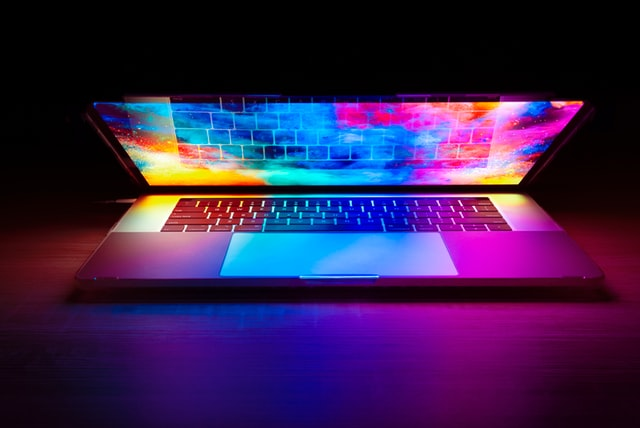
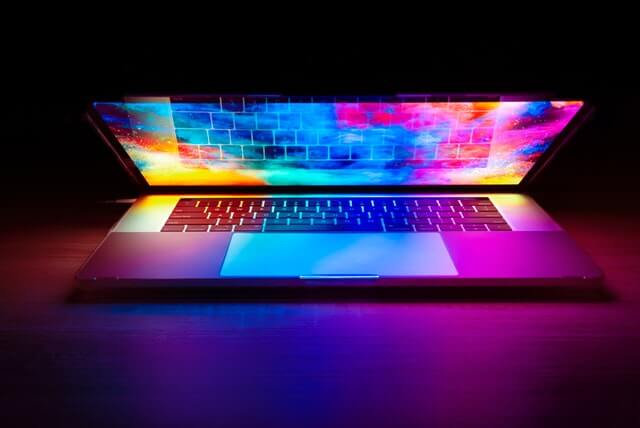
made mobile images, compressed all images and converted all html images to webp's

diff --git a/index.html b/index.html
@@ -192,7 +192,24 @@
 					Louis E. Boone
 				</h3>
 				<div class="container">
-					<img
+					<picture>
+						<source
+							media="(max-width: 640px)"
+							srcset="images/portrait-m.webp"
+						/>
+						<source media="(min-width: 641px)" srcset="images/portrait.webp" />
+						<img
+							id="portrait"
+							src="images/portrait.jpg"
+							alt="portrait"
+							width="351"
+							height="458"
+							decoding="async"
+							loading="lazy"
+							aria-hidden="true"
+						/>
+					</picture>
+					<!-- <img
 						id="portrait"
 						src="images/portrait.jpg"
 						alt="portrait"
@@ -201,7 +218,7 @@
 						decoding="async"
 						loading="lazy"
 						aria-hidden="true"
-					/>
+					/> -->
 					<div class="text">
 						<h2>A little about me</h2>
 						<p>
@@ -392,6 +409,16 @@
 
 				<div class="container flex-wrap">
 					<div id="one" class="project develop full-stack">
+						<picture>
+							<source
+								media="(max-width: 640px)"
+								srcset="images/HE_Cover-m.webp"
+							/>
+							<source
+								media="(min-width: 641px)"
+								srcset="images/HE_Cover.webp"
+							/>
+						</picture>
 						<img
 							id="project-img"
 							src="images/HE_Cover.jpg"
@@ -463,6 +490,16 @@
 						<p class="access">Password: 123456</p>
 					</div>
 					<div id="two" class="project develop games">
+						<picture>
+							<source
+								media="(max-width: 640px)"
+								srcset="images/guess_my_number-m.webp"
+							/>
+							<source
+								media="(min-width: 641px)"
+								srcset="images/guess_my_number.webp"
+							/>
+						</picture>
 						<img
 							id="project-img"
 							src="images/guess_my_number.jpg"
@@ -527,15 +564,26 @@
 						<p>JavaScript, Git, and Netlify.</p>
 					</div>
 					<div id="three" class="project design develop full-stack">
-						<img
-							id="project-img"
-							src="images/MT_Cover.jpg"
-							alt="project"
-							width="350"
-							height="350"
-							decoding="async"
-							loading="lazy"
-						/>
+						<picture>
+							<source
+								media="(max-width: 640px)"
+								srcset="images/MT_Cover-m.webp"
+							/>
+							<source
+								media="(min-width: 641px)"
+								srcset="images/MT_Cover.webp"
+							/>
+							<img
+								id="project-img"
+								src="images/MT_Cover.jpg"
+								alt="project"
+								width="350"
+								height="350"
+								decoding="async"
+								loading="lazy"
+							/>
+						</picture>
+
 						<div id="o-three" class="overlay">
 							<h4>Model Trains</h4>
 							<p>Design</p>
@@ -576,15 +624,26 @@
 						</p>
 					</div>
 					<div id="four" class="project design develop full-stack">
-						<img
-							id="project-img"
-							src="images/TP_Cover.jpg"
-							alt="project"
-							width="350"
-							height="350"
-							decoding="async"
-							loading="lazy"
-						/>
+						<picture>
+							<source
+								media="(max-width: 640px)"
+								srcset="images/TP_Cover-m.webp"
+							/>
+							<source
+								media="(min-width: 641px)"
+								srcset="images/TP_Cover.webp"
+							/>
+							<img
+								id="project-img"
+								src="images/TP_Cover.jpg"
+								alt="project"
+								width="350"
+								height="350"
+								decoding="async"
+								loading="lazy"
+							/>
+						</picture>
+
 						<div id="o-four" class="overlay">
 							<h4>Sport Coach</h4>
 							<p>Design</p>
@@ -626,15 +685,20 @@
 						</p>
 					</div>
 					<div id="five" class="project develop games">
-						<img
-							id="project-img"
-							src="images/pig.jpg"
-							alt="project"
-							width="350"
-							height="350"
-							decoding="async"
-							loading="lazy"
-						/>
+						<picture>
+							<source media="(max-width: 640px)" srcset="images/pig-m.webp" />
+							<source media="(min-width: 641px)" srcset="images/pig.webp" />
+							<img
+								id="project-img"
+								src="images/pig.jpg"
+								alt="project"
+								width="350"
+								height="350"
+								decoding="async"
+								loading="lazy"
+							/>
+						</picture>
+
 						<div id="o-five" class="overlay">
 							<h4>Pig</h4>
 							<p>Develop</p>
@@ -671,15 +735,23 @@
 						<p>JavaScript, Git, and Netlify.</p>
 					</div>
 					<div id="six" class="project design develop">
-						<img
-							id="project-img"
-							src="images/laptop.jpg"
-							alt="project"
-							width="350"
-							height="350"
-							decoding="async"
-							loading="lazy"
-						/>
+						<picture>
+							<source
+								media="(max-width: 640px)"
+								srcset="images/laptop-m.webp"
+							/>
+							<source media="(min-width: 641px)" srcset="images/laptop.webp" />
+							<img
+								id="project-img"
+								src="images/laptop.jpg"
+								alt="project"
+								width="350"
+								height="350"
+								decoding="async"
+								loading="lazy"
+							/>
+						</picture>
+
 						<div id="o-six" class="overlay">
 							<h4>My Portfolio</h4>
 							<p>Design</p>
@@ -948,9 +1020,6 @@
 								required
 							></textarea>
 						</div>
-
-						<div class="re-captcha" data-netlify-recaptcha="true"></div>
-
 						<button
 							name="submit"
 							type="submit"

diff --git a/css/local.less b/css/local.less
@@ -819,12 +819,6 @@
 						text-align: right;
 					}
 				}
-
-				.g-recaptcha {
-					margin-bottom: 0.5em;
-
-					width: 50%;
-				}
 			}
 		}
 	}
@@ -873,9 +867,6 @@
 				::placeholder {
 					font-size: 14/14em;
 				}
-				// .g-recaptcha {
-
-				// }
 			}
 		}
 	}
@@ -908,9 +899,6 @@
 				::placeholder {
 					font-size: 18/14em;
 				}
-				// .g-recaptcha {
-				// 	margin-left: 60%;
-				// }
 			}
 		}
 	}

diff --git a/css/local.css b/css/local.css
@@ -559,10 +559,6 @@
     margin-right: 1em;
     text-align: right;
   }
-  #contact .form-container #form .g-recaptcha {
-    margin-bottom: 0.5em;
-    width: 50%;
-  }
 }
 /* Mobile 512px + */
 @media only screen and (min-width: 32em) {
